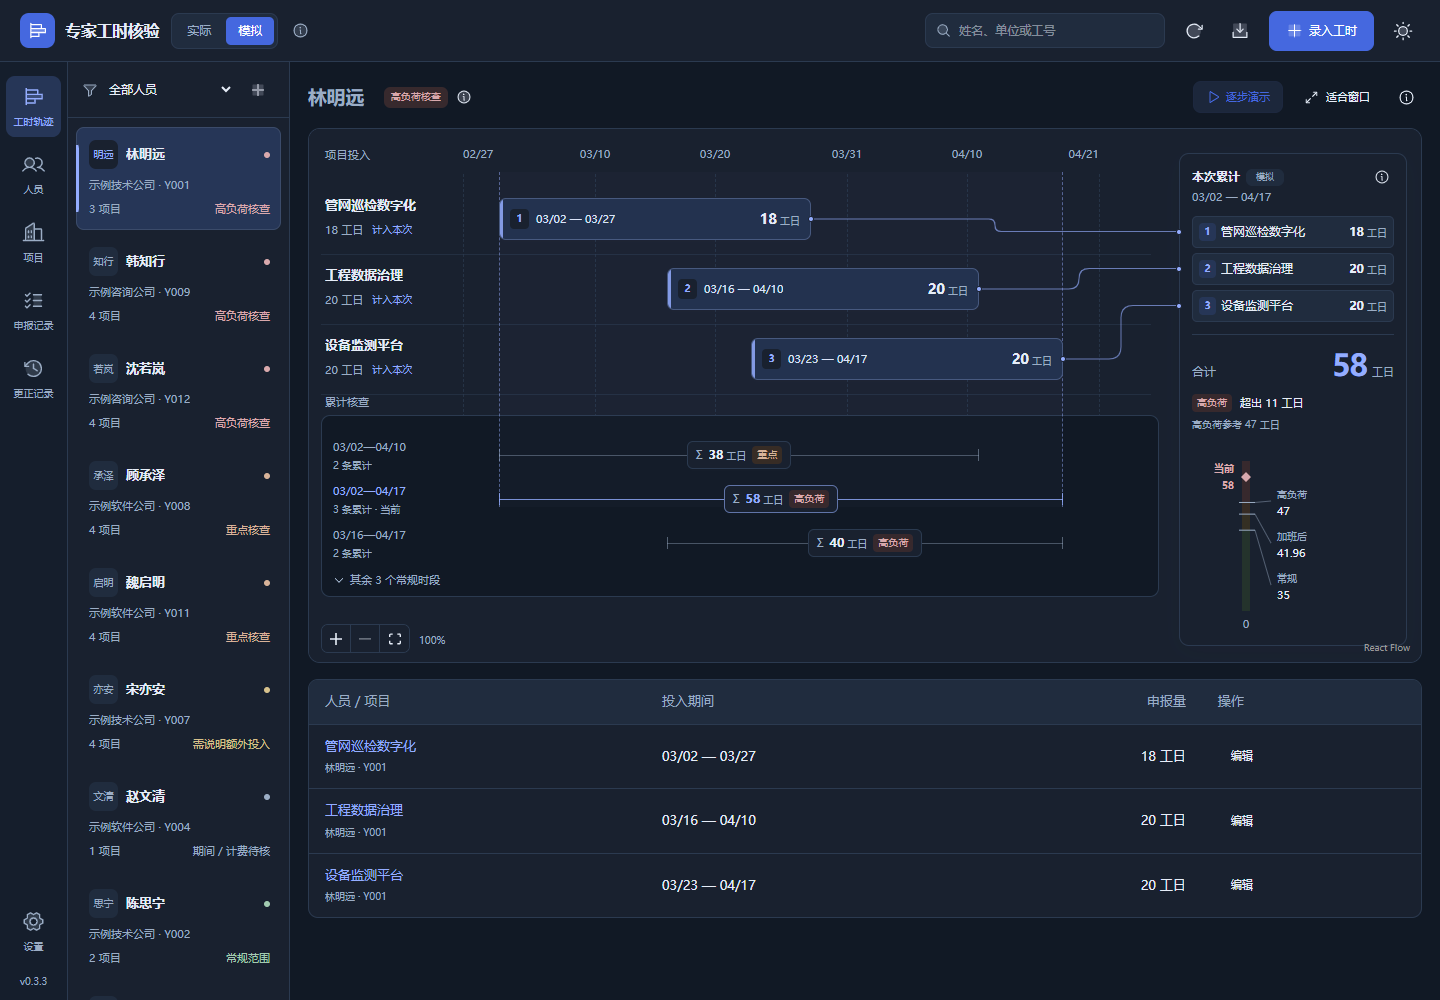
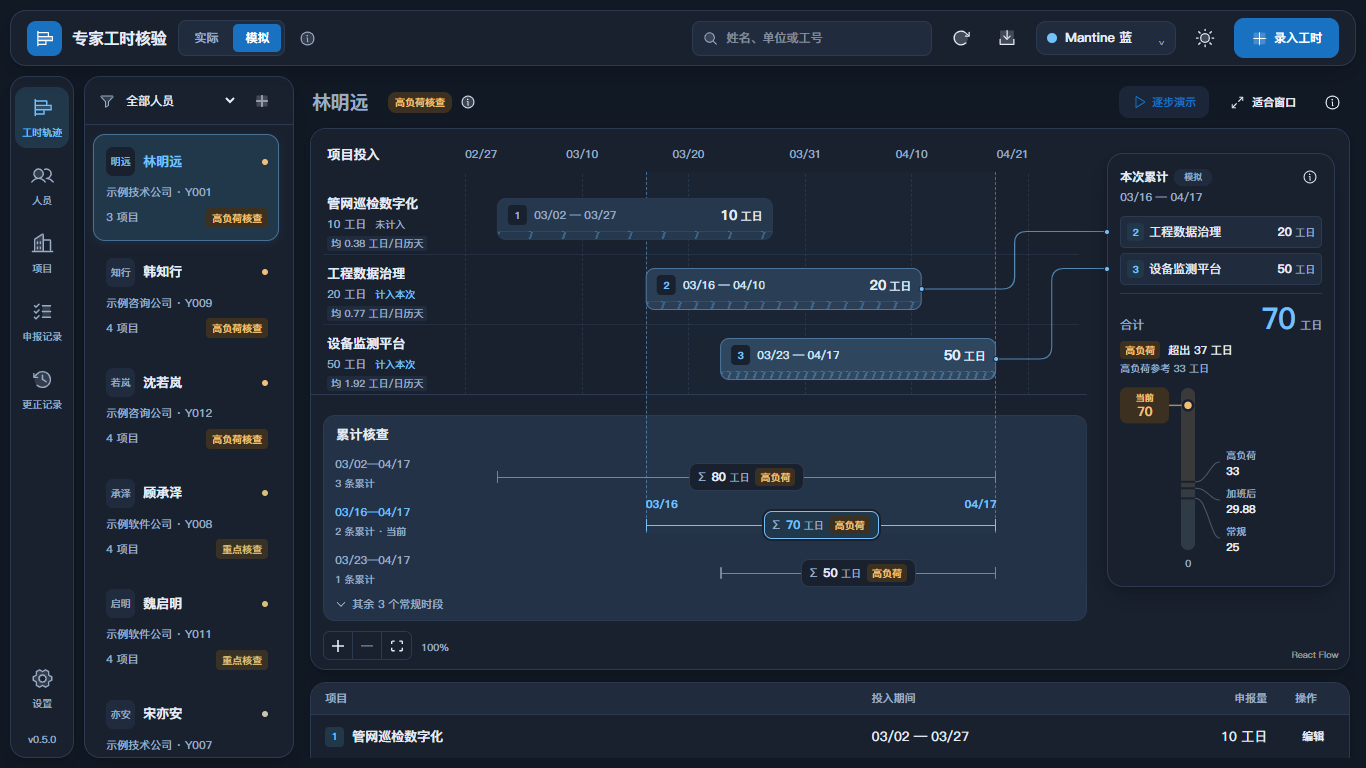
Add floating workbench surfaces and selectable color themes

diff --git a/src/main.jsx b/src/main.jsx
@@ -6,6 +6,8 @@ import CapacityGauge from './CapacityGauge.jsx';
 import Timeline from './FlowTimeline.jsx';
 import './workbench.css';
 import './fonts.css';
+import './floating.css';
+import ThemePicker from './ThemePicker.jsx';
 import WindowContributions from './WindowContributions.jsx';
 import { personRisk, riskExplanation, capacityExplanation, overlapPeriods, exactOverlapWindow, orderedWindows } from './timelineRisk.js';
 
@@ -138,7 +140,7 @@ function App(){
   const allEntries=state?.entries.filter(e=>{const p=state.people.find(p=>p.id===e.person_id),j=state.projects.find(p=>p.id===e.project_id);return `${p?.name} ${j?.name}`.includes(search);})||[];
   const entryTable=(rows,compact=false)=><div className={`table-scroll ${compact?'timeline-entries':''}`}><table className="table table-sm" aria-label={compact?'当前人员申报明细':'工时申报记录'}><thead><tr><th>{compact?'项目':'人员 / 项目'}</th><th>投入期间</th><th className="numeric">申报量</th><th>操作</th></tr></thead><tbody>{rows.map((e,i)=>{const p=state.people.find(p=>p.id===e.person_id),j=state.projects.find(p=>p.id===e.project_id);return <tr key={e.id} className={entryId===e.id?'selected-row':''}><td><div className={compact?'entry-project':''}>{compact&&<span className="entry-index" aria-label={`申报${i+1}`}>{i+1}</span>}<button className="text-link" title={j?.name} onClick={()=>{choosePerson(e.person_id);openEntry(e.id);setView('timeline');}}>{j?.name}</button>{compact&&entryNote(e)&&badge(entryNote(e))}</div>{!compact&&<small>{p?.name} · {p?.code}{entryNote(e)&&badge(entryNote(e))}</small>}</td><td>{md(e.start)} — {md(e.end)}</td><td className="numeric">{num(e.amount)} {e.unit}</td><td><button className="btn btn-ghost btn-sm" aria-label={compact?`编辑${j?.name}申报`:undefined} onClick={()=>edit('entries',e)}>编辑</button></td></tr>;})}</tbody></table></div>;
   return <div className="app-shell">
-    <header className="app-header navbar"><div className="brand"><Icon as={ChartBarHorizontal} size={25}/><strong>专家工时核验</strong></div><nav className="ledger-switch" aria-label="台账切换"><a className={'btn btn-ghost btn-sm'+(!demo?' is-current':'')} href="/" aria-current={!demo?'page':undefined} title="切换到实际台账">实际</a><a className={'btn btn-ghost btn-sm'+(demo?' is-current':'')} href="/?demo=1" aria-current={demo?'page':undefined} title="切换到模拟台账">模拟</a></nav><button className="btn btn-ghost icon ledger-info" title="数据与规则说明（当前使用模拟规则）" aria-label="查看数据与规则说明" onClick={()=>setModal({type:'about'})}><Icon as={Info} size={17}/></button><div className="header-space"/>{data&&<>{view!=='history'&&<label className="search"><Icon as={MagnifyingGlass} size={17}/><input aria-label="搜索" placeholder={view==='timeline'?'姓名、单位或工号':'搜索'} value={search} onChange={e=>setSearch(e.target.value)}/></label>}<button className="btn btn-ghost icon" aria-label="刷新台账" title="刷新台账" disabled={loading} onClick={refresh}><Icon as={ArrowClockwise}/></button><a className="btn btn-ghost icon" href={API+'/export'} aria-label="导出核验结果" title="导出核验结果"><Icon as={DownloadSimple}/></a></>}<button className="btn btn-ghost icon" title={dark?'切换亮色':'切换深色'} aria-label={dark?'切换亮色':'切换深色'} onClick={()=>setDark(v=>!v)}><Icon as={dark?Sun:Moon}/></button>{data&&<>{view==='projects'?<button className="btn btn-primary" onClick={()=>edit('projects')}><Icon as={Plus} size={17}/>新增项目</button>:view==='people'?<button className="btn btn-primary" onClick={()=>edit('people')}><Icon as={Plus} size={17}/>新增人员</button>:view!=='history'&&<button className="btn btn-primary" disabled={!state.people.length||!state.projects.length} title={!state.people.length||!state.projects.length?'请先新增人员和项目':'录入此人的项目工时'} onClick={()=>edit('entries')}><Icon as={Plus} size={17}/>录入工时</button>}</>}</header>
+    <header className="app-header navbar"><div className="brand"><Icon as={ChartBarHorizontal} size={25}/><strong>专家工时核验</strong></div><nav className="ledger-switch" aria-label="台账切换"><a className={'btn btn-ghost btn-sm'+(!demo?' is-current':'')} href="/" aria-current={!demo?'page':undefined} title="切换到实际台账">实际</a><a className={'btn btn-ghost btn-sm'+(demo?' is-current':'')} href="/?demo=1" aria-current={demo?'page':undefined} title="切换到模拟台账">模拟</a></nav><button className="btn btn-ghost icon ledger-info" title="数据与规则说明（当前使用模拟规则）" aria-label="查看数据与规则说明" onClick={()=>setModal({type:'about'})}><Icon as={Info} size={17}/></button><div className="header-space"/>{data&&<>{view!=='history'&&<label className="search"><Icon as={MagnifyingGlass} size={17}/><input aria-label="搜索" placeholder={view==='timeline'?'姓名、单位或工号':'搜索'} value={search} onChange={e=>setSearch(e.target.value)}/></label>}<button className="btn btn-ghost icon" aria-label="刷新台账" title="刷新台账" disabled={loading} onClick={refresh}><Icon as={ArrowClockwise}/></button><a className="btn btn-ghost icon" href={API+'/export'} aria-label="导出核验结果" title="导出核验结果"><Icon as={DownloadSimple}/></a></>}<ThemePicker/><button className="btn btn-ghost icon" title={dark?'切换亮色':'切换深色'} aria-label={dark?'切换亮色':'切换深色'} onClick={()=>setDark(v=>!v)}><Icon as={dark?Sun:Moon}/></button>{data&&<>{view==='projects'?<button className="btn btn-primary" onClick={()=>edit('projects')}><Icon as={Plus} size={17}/>新增项目</button>:view==='people'?<button className="btn btn-primary" onClick={()=>edit('people')}><Icon as={Plus} size={17}/>新增人员</button>:view!=='history'&&<button className="btn btn-primary" disabled={!state.people.length||!state.projects.length} title={!state.people.length||!state.projects.length?'请先新增人员和项目':'录入此人的项目工时'} onClick={()=>edit('entries')}><Icon as={Plus} size={17}/>录入工时</button>}</>}</header>
     <div className="shell-body"><nav className="rail" aria-label="主导航"><ul className="menu menu-md rail-menu">{nav.map(([id,label,C])=><li key={id}><button className={'rail-btn '+(view===id?'active':'')} title={label} aria-label={label} aria-current={view===id?'page':undefined} onClick={()=>{setView(id);setSearch('');}}><Icon as={C} size={23}/><span>{label}</span></button></li>)}</ul><div className="rail-footer"><button className="rail-btn" title="设置与备份" aria-label="设置与备份" onClick={()=>setModal({type:'tools'})}><Icon as={GearSix} size={23}/><span>设置</span></button><small>v{VERSION}</small></div></nav>
     <main>{error&&<div className="error global-error" role="alert">{error}<button className="btn btn-sm" onClick={refresh}>重试读取</button></div>}
     {!data?<div className="empty"><span className="loading loading-spinner"/>正在读取台账</div>:<>

diff --git a/src/floating.css b/src/floating.css
@@ -1,0 +1,76 @@
+/* daisyUI semantic colors and radii; palette is independent of light/dark mode. */
+:root {
+  --radius-box: 1rem;
+  --radius-field: .625rem;
+  --radius-selector: .5rem;
+  --surface-shadow: 0 2px 4px #20304704, 0 8px 24px #20304706;
+  --raised-shadow: 0 3px 8px #20304706, 0 10px 28px #20304708;
+}
+[data-theme=dark] {
+  --surface-shadow: 0 2px 5px #0002, 0 8px 24px #0002;
+  --raised-shadow: 0 3px 8px #0002, 0 10px 28px #0003;
+}
+[data-palette=teal] { --accent:#0c8599; --primary:#0c8599; --tint:#e3fafc; }
+[data-palette=violet] { --accent:#7950c5; --primary:#7950c5; --tint:#f3f0ff; }
+[data-palette=slate] { --accent:#52657a; --primary:#52657a; --tint:#eaf0f5; }
+[data-theme=dark][data-palette=teal] { --accent:#66d9e8; --primary:#087f8c; --tint:#19383f; }
+[data-theme=dark][data-palette=violet] { --accent:#b197fc; --primary:#7048b8; --tint:#302740; }
+[data-theme=dark][data-palette=slate] { --accent:#afc2d6; --primary:#52657a; --tint:#293642; }
+[data-palette] {
+  --color-primary:var(--primary);
+  --hatch:color-mix(in srgb,var(--accent) 9%,transparent);
+}
+.app-shell { padding:10px; gap:10px; }
+.app-header.navbar {
+  height:56px; min-height:56px; padding-inline:16px;
+  border:1px solid var(--line); border-radius:var(--radius-box);
+  box-shadow:var(--surface-shadow); position:relative; z-index:10;
+}
+.shell-body { gap:10px; }
+.rail {
+  width:64px; padding:10px 4px; background:var(--paper);
+  border:1px solid var(--line); border-radius:var(--radius-box);
+  box-shadow:var(--surface-shadow);
+}
+.rail-menu.menu>li>.rail-btn,.rail>.rail-footer>.rail-btn { width:54px; border-radius:12px; }
+.timeline-workspace { gap:10px; }
+.people-panel {
+  width:210px; border:1px solid var(--line); border-radius:var(--radius-box);
+  box-shadow:var(--surface-shadow); overflow:hidden;
+}
+.people-filter { height:48px; flex-shrink:0; }
+.person-card.card { border-radius:12px; }
+.person-card.card.active { box-shadow:0 2px 8px color-mix(in srgb,var(--accent) 7%,transparent); }
+.flow-timeline { margin:0 6px 12px; }
+.flow-timeline .chart-toolbar { min-height:52px; padding:10px 2px; }
+.flow-host { border-radius:var(--radius-box); box-shadow:var(--surface-shadow); }
+.flow-result { border-radius:var(--radius-box); box-shadow:var(--raised-shadow); }
+.flow-review-ground { border-radius:12px; }
+.claim-button { border-radius:9px; }
+.flow-range-summary { border-radius:8px; }
+.person-workspace>.person-scroll>.table-scroll,
+.person-workspace>.person-scroll>.timeline-entries {
+  margin-inline:6px; border-radius:var(--radius-box); box-shadow:var(--surface-shadow);
+}
+.person-scroll { padding-bottom:12px; }
+.evidence { margin-left:0; border:1px solid var(--line); border-radius:var(--radius-box); overflow:hidden; box-shadow:var(--surface-shadow); }
+.page-scroll>.table-scroll,.page-scroll>.table { border-radius:var(--radius-box); box-shadow:var(--surface-shadow); }
+.app-modal .modal-box { border-radius:var(--radius-box); }
+.theme-picker { flex-shrink:0; }
+.theme-picker>summary { height:34px; min-height:34px; width:140px; padding-inline:10px; gap:8px; font-size:13px; background:var(--soft); border:1px solid var(--line); border-radius:var(--radius-field); }
+.theme-caret { margin-left:auto; color:var(--muted); }
+.theme-swatch { display:block; flex-shrink:0; width:10px; height:10px; border-radius:50%; background:var(--accent); }
+.theme-options.menu { width:176px; margin-top:8px; padding:6px; border:1px solid var(--line); box-shadow:var(--raised-shadow); z-index:20; }
+.theme-options button { gap:10px; font-size:13px; min-height:36px; border-radius:8px; }
+.theme-options button[aria-pressed=true] { background:var(--tint); color:var(--accent); }
+.theme-check { margin-left:auto; width:14px; }
+@media(max-width:1250px) {
+  .app-shell { padding:8px; gap:8px; }
+  .shell-body,.timeline-workspace { gap:8px; }
+  .people-panel { width:188px; }
+  .app-header.navbar { gap:6px; padding-inline:12px; }
+  .app-header .search { width:180px; }
+  .flow-timeline { margin-inline:4px; }
+  .person-workspace>.person-scroll>.table-scroll { margin-inline:4px; }
+}
+@media print { .app-shell { padding:0; } }

diff --git a/src/ThemePicker.jsx b/src/ThemePicker.jsx
@@ -1,0 +1,41 @@
+import React, { useEffect, useRef, useState } from 'react';
+import { CaretDown, Check } from '@phosphor-icons/react';
+
+const palettes = [
+  ['blue', 'Mantine 蓝', '#228be6'],
+  ['teal', '青绿', '#0c8599'],
+  ['violet', '鸢尾紫', '#7950c5'],
+  ['slate', '石墨', '#52657a'],
+];
+
+export default function ThemePicker() {
+  const menu = useRef(null);
+  const [palette, setPalette] = useState(() => {
+    try {
+      const saved = localStorage.getItem('hours-palette');
+      return palettes.some(([id]) => id === saved) ? saved : 'blue';
+    } catch { return 'blue'; }
+  });
+  useEffect(() => {
+    document.documentElement.dataset.palette = palette;
+    try { localStorage.setItem('hours-palette', palette); } catch { /* Session selection still works. */ }
+  }, [palette]);
+  useEffect(() => {
+    const closeOutside = event => { if (!menu.current?.contains(event.target)) menu.current?.removeAttribute('open'); };
+    document.addEventListener('pointerdown', closeOutside);
+    return () => document.removeEventListener('pointerdown', closeOutside);
+  }, []);
+  const close = () => { menu.current.removeAttribute('open'); menu.current.querySelector('summary').focus(); };
+  return <details ref={menu} className="dropdown dropdown-end theme-picker" onKeyDown={event => {
+    if (event.key === 'Escape') { event.preventDefault(); close(); }
+  }}>
+    <summary className="btn btn-ghost" aria-label="选择主题色" title="选择主题色">
+      <span className="theme-swatch" aria-hidden="true" />{palettes.find(([id]) => id === palette)[1]}<CaretDown className="theme-caret" size={12} aria-hidden="true" />
+    </summary>
+    <ul className="dropdown-content menu bg-base-100 rounded-box shadow-sm theme-options" aria-label="主题色选项">
+      {palettes.map(([id, name, color]) => <li key={id}><button type="button" aria-pressed={palette === id} onClick={() => { setPalette(id); close(); }}>
+        <span className="theme-swatch" style={{background:color}} aria-hidden="true" />{name}<span className="theme-check" aria-hidden="true">{palette === id && <Check size={14}/>}</span>
+      </button></li>)}
+    </ul>
+  </details>;
+}

diff --git a/CHANGELOG.md b/CHANGELOG.md
@@ -1,5 +1,11 @@
 # 版本记录
 
+## 0.5.0 · 2026-11-08
+
+- 依照 daisyUI 的语义颜色、圆角及菜单组件整理工作台：顶栏、导航、人员面板、甘特图、明细和依据面板采用悬浮圆角与轻阴影；不新增标题栏，不改变业务字体及累计算法。
+- 顶栏增加 Mantine 蓝、青绿、鸢尾紫、石墨四种主题，亮暗独立切换并在本机记忆；项目条密度、选中态、来源连线同步主题色，预警仍使用琥珀色系。菜单支持键盘、Escape 和点击外部关闭，无效旧值回退蓝色。
+- 构建、47项服务测试和27项UI逻辑测试通过。真实浏览器核对四配色×亮暗、持久化、键盘菜单、录入/编辑打开取消、累计来源切换和依据面板；1101/1366/1621宽度无遮挡/横向溢出，1366×768首屏可见3条项目泳道及1条完整申报。证据：`Codex-Temp/floating-acceptance-v050.js`、`floating-layout-v050.js`及截图。构建仍提示React Flow指令与500kB体积建议，不影响构建完成。
+
 ## 0.4.17 · 2026-11-07
 
 - 实际页面统一使用用户提供的苹方简体，随本地服务提供400/500/600三个字重的完整WOFF2字体，覆盖正文、按钮、甘特图、参考轴、表格和弹窗。保留每个字重29924个字符映射；按内部Regular/Medium/Semibold名称匹配并修正派生文件权重，原始字体包不变。
@@ -19,8 +25,3 @@
 
 - 收紧累计核查内部密度：标题预留从42px调整为30px，行高56px调整为48px，标题顶部与行内日期/范围线同步上收；三行累计区缩短36px。保留项目区与累计区的20px间隔及分区底色。
 - 构建、47项服务与27项前端逻辑测试通过；浏览器验证1621/1101宽度、亮暗主题、标题/行边界、常规时段展开收起及六步演示。证据：`Codex-Temp/sections-v0414.js`、`sections-*-v0414.png`。
-
-## 0.4.13 · 2026-11-07
-
-- 项目投入与累计核查采用13px加深加粗标题；项目区底部明确分隔线，两区之间保留20px留白。累计标题移入独立浅蓝灰底区，预留标题空间，时间网格止于项目区，当前日期对齐线继续关联累计。无新增标题栏。
-- 构建、47项服务与27项前端逻辑测试通过；真实浏览器核对1621/1101宽度、亮暗主题、标题和累计行边界、常规时段展开/收起及六步演示布局。证据：`Codex-Temp/sections-v0413.js`、`sections-*-v0413.png`。

diff --git a/AGENTS.md b/AGENTS.md
@@ -26,3 +26,5 @@
 - 工时图使用 React Flow 自定义节点与原生连线，节点禁止拖动修改业务日期；默认完整视图禁止画布平移，仅主动放大后可在内容边界内移动，缩回或适配时恢复原点，不能把项目或计算栏拖出默认视图。累计底区须有左侧留白、完整边框与四角圆角，不能贴画布左边形成裁切感。受控节点应提供已知 initialWidth/initialHeight，防止更新高亮时临时隐藏导致 hover/focus 丢失；不可选节点内的业务按钮须显式恢复 pointer-events。累计卡用 ResizeObserver 测量高度，避免参考轴被裁切。daisyUI 组件高于 legacy 样式层，布局单独在 workbench.css / flow-timeline.css 管理。
 
 - 项目条密度仅表示完整申报工日除以含首尾日历天数的平均投入；显示日历天口径并保留悬停算式，不得作为逐日实际记录、交叉段分摊或预警计算依据。用整条单一蓝色的深浅配合底部8px密度刻纹，禁止铺满整条的网格；色深及刻纹密度设上限；缺折算依据不生成密度填色，切换累计范围不改变原记录密度与底色。
+
+- 工作台采用 daisyUI 语义变量的悬浮圆角与轻阴影，外层16px圆角、内层8–12px；主题入口位于顶栏录入之前，支持 Mantine 蓝、青绿、鸢尾紫、石墨及独立亮暗模式。上述蓝色交互/密度/连线约定随所选主题色统一切换；风险标签不随主题色变义。只在主面板使用轻阴影，不给每条业务记录叠重阴影。

diff --git a/CHANGELOG-历史归档.md b/CHANGELOG-历史归档.md
@@ -260,3 +260,8 @@
 - 有效旧记录编辑时解除旧审批状态，降低录入量不再被旧认定量阻挡；保存仍保留历史与操作者。旧后台字段及兼容计算保留，当前界面不使用；未迁移或清除现有台账。
 - 47项服务测试、23项前端逻辑测试、构建通过。独立测试库浏览器验证18改12后全期58变52、追加1后变53、无复核输入、刷新持久化和旧18历史留存；当前服务仅做页面及打印只读验证，原六步演示回归通过。证据：`Codex-Temp/direct-input-acceptance.js`、`direct-input-v020.png`。
 - README、PRD及项目约定同步新操作口径；规则与服务仍为0.1.0，0.1.7版本记录移至历史归档。
+
+## 0.4.13 · 2026-11-07
+
+- 项目投入与累计核查采用13px加深加粗标题；项目区底部明确分隔线，两区之间保留20px留白。累计标题移入独立浅蓝灰底区，预留标题空间，时间网格止于项目区，当前日期对齐线继续关联累计。无新增标题栏。
+- 构建、47项服务与27项前端逻辑测试通过；真实浏览器核对1621/1101宽度、亮暗主题、标题和累计行边界、常规时段展开/收起及六步演示布局。证据：`Codex-Temp/sections-v0413.js`、`sections-*-v0413.png`。

diff --git a/README.md b/README.md
@@ -4,7 +4,7 @@
 
 **按人员查看跨项目投入，让每一项累计都有来源。**
 
-![Version](https://img.shields.io/badge/version-0.4.17-228be6)
+![Version](https://img.shields.io/badge/version-0.5.0-228be6)
 ![Rules](https://img.shields.io/badge/rules-0.1.0%20%7C%20simulation-d97706)
 ![React](https://img.shields.io/badge/React-19-149eca?logo=react&logoColor=white)
 ![Python](https://img.shields.io/badge/Python-3.10%2B-3776ab?logo=python&logoColor=white)
@@ -23,6 +23,8 @@
 ![亮色工作台：跨项目泳道、独立核查窗口及右侧来源计算](00-docs/images/worktime-light.png)
 
 项目投入以淡蓝时间条展示，核查范围以短竖刻度和细线独立成行，选中后突出起止日期与蓝色范围线；参与累计的完整申报通过连接线对应右侧分项与参考轴。截图使用内置模拟数据。
+
+界面采用 daisyUI 语义主题与悬浮圆角卡片、轻阴影；顶栏主题菜单可选 Mantine 蓝、青绿、鸢尾紫、石墨，支持亮暗模式并记住选择。预警始终保留琥珀色系。
 
 界面使用随本地服务提供的苹方简体 WOFF2，覆盖常规、中等与半粗三个字重；Windows 无需额外安装字体。内部测试字体来源和映射见 [字体说明](public/fonts/README.md)。
 

diff --git a/00-docs/00-PRD/02-当前版本计划.md b/00-docs/00-PRD/02-当前版本计划.md
@@ -1,6 +1,8 @@
 # 当前版本计划
 
-界面与模拟案例版本：0.4.17；规则与服务：0.1.0；更新：2026-11-07。
+界面与模拟案例版本：0.5.0；规则与服务：0.1.0；更新：2026-11-08。
+
+- v0.5.0：悬浮圆角卡片和轻阴影统一；四主题色支持亮暗与本机记忆，风险语义不变。构建、47项服务和27项UI逻辑测试通过；菜单键盘、持久化、三种宽度、累计联动、录入/编辑打开取消和依据面板浏览器检查通过。证据 `Codex-Temp/floating-acceptance-v050.js`、`floating-layout-v050.js`。
 
 - v0.4.17：用户提供的苹方字体转完整WOFF2并随页面自托管，统一全局字体与400/500/600字重。构建、47项服务与27项前端测试通过；浏览器CDP证实实际使用苹方，宽窄亮暗、录入弹窗验证通过。证据 `Codex-Temp/pingfang-v0417.js`。
 
